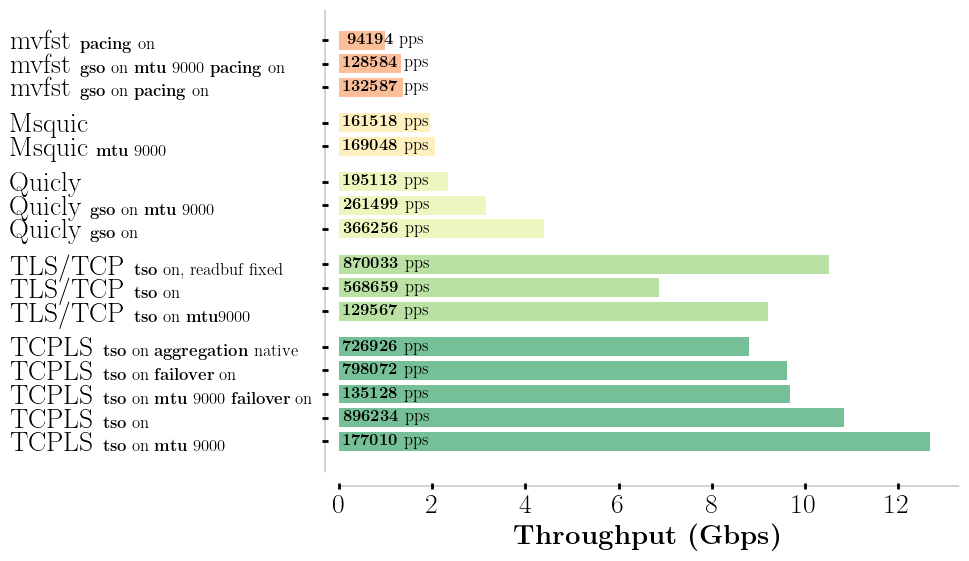
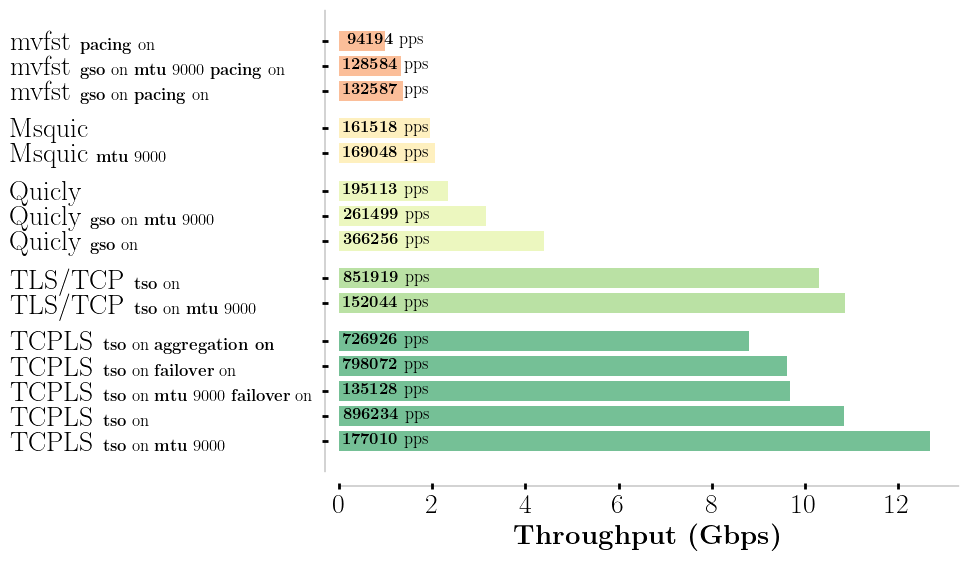
up figure

Changed region(s): [[0.0, 0.0909, 0.8978, 0.8182], [0.0, 0.0606, 0.2786, 0.1818]]

diff --git a/pretty_plotify/plot_perf.py b/pretty_plotify/plot_perf.py
@@ -60,7 +60,7 @@ def main():
     #bar_height_pps_sorted = [(x[0], mapping[x[0]]) for x in bar_height_bw]
     #bar_height_pps = bar_height_pps_sorted
     y_pos = np.arange(len(bar_height_bw))
-    y_pos = [ 0,  1,  2,  3,  4,  5.5,  6.5 , 7.5, 9,  10, 11, 12.5, 13.5 ,15 , 16, 17]
+    y_pos = [ 0,  1,  2,  3,  4,  5.5,  6.5 , 8,  9, 10, 11.5, 12.5 ,14 , 15, 16]
     #data plotting
     fig, ax = plt.subplots(figsize=(8,6))
 
@@ -73,7 +73,7 @@ def main():
 #             cmap[1],cmap[5],cmap[0]]
 
     colors = [cmap[5],cmap[5], cmap[5],cmap[5],cmap[5],
-          cmap[4], cmap[4], cmap[4],
+          cmap[4], cmap[4],
           cmap[3],cmap[3],cmap[3],
           cmap[2],cmap[2],
           cmap[1],cmap[1],cmap[1]]
